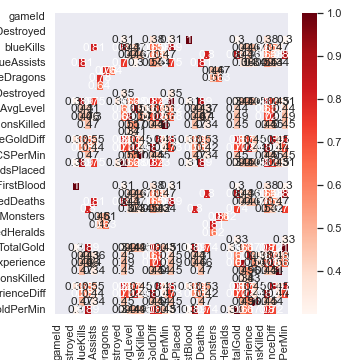
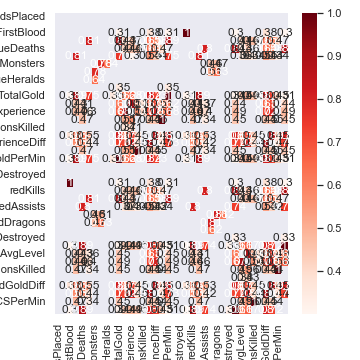
added svm

diff --git a/DataAnalysisFile.py b/DataAnalysisFile.py
@@ -6,12 +6,12 @@ import seaborn as sns
 df = pd.read_csv('OriginalData.csv', index_col=False)
 df.head()
 
-x = df.drop(['blueWins'],axis=1)
-x.head()
-
 ## Dropping gameID feature
 df.drop(['gameId'],axis=1,inplace=True)
 df.head(2)
+
+x = df.drop(['blueWins'],axis=1)
+x.head()
 
 ## plt displot
 for i in df.columns:
@@ -51,14 +51,13 @@ a= set()
 for i in x.columns:
     for j in x.columns:
         if(i != j):
-            if(abs(x[i].corr(x[j])) >=0.4):
-               if(abs(x[i].corr(x[j])) < 1.0):
-                   a.add(i)
-                   a.add(j)
-               else:
-                   a.add(i)
+            b= abs(x[i].corr(x[j]))
+            if(b == 1.0):
+                     a.add(i)
+                     a.add(j)
+            
 # 7 cols have been removed based on multicolinarity and less corr
-X_filter = df[list(a)]
+X_filter = x.drop(list(a),axis=1)
 X_filter.head()
 y= df['blueWins']
 y.head(2)
@@ -108,15 +107,16 @@ transformX = ColumnTransformer(transformers=[('Log Tranform',FunctionTransformer
                                             ('Square Transform',FunctionTransformer(func=np.square),lSkCol1),
                                            ('Stander Scaler',StandardScaler(),full_col )],remainder='passthrough')
 
-X_filter=transformX.fit_transform(X_filter)
-## model building
-
-from sklearn.linear_model import LogisticRegression
 from sklearn.model_selection import train_test_split
+X_filter=transformX.fit_transform(X_filter)
+xtrain, xtest, ytrain, ytest =  train_test_split( X_filter, y, test_size=0.30, random_state=42)
+
+
 from sklearn.model_selection import cross_val_score
 from sklearn.model_selection import GridSearchCV
 
-xtrain, xtest, ytrain, ytest =  train_test_split( X_filter, y, test_size=0.30, random_state=42)
+## model building Logistic Reg.
+from sklearn.linear_model import LogisticRegression
 model = LogisticRegression()
 solvers = ['newton-cg', 'lbfgs', 'liblinear']
 penalty = ['l2']
@@ -128,7 +128,6 @@ grid_search = GridSearchCV(estimator=model, param_grid=grid,cv=5, n_jobs=-1, sco
 grid_result = grid_search.fit(xtrain, ytrain)
 
 
-
 print("Best: %f using %s" % (grid_result.best_score_, grid_result.best_params_))
 means = grid_result.cv_results_['mean_test_score']
 stds = grid_result.cv_results_['std_test_score']
@@ -137,7 +136,13 @@ for mean, stdev, param in zip(means, stds, params):
     print("%f (%f) with: %r" % (mean, stdev, param))
 
 
+## SVM classifier
+from sklearn.svm import SVC
+param_grid = {'C': [0.1, 1, 10, 100, 1000], 
+              'gamma': [1, 0.1, 0.01, 0.001, 0.0001],
+              'kernel': ['rbf']}
 
+grid_search = GridSearchCV(estimator=SVC(), param_grid=param_grid,cv=5, n_jobs=-1, scoring='accuracy')
 
 
 
